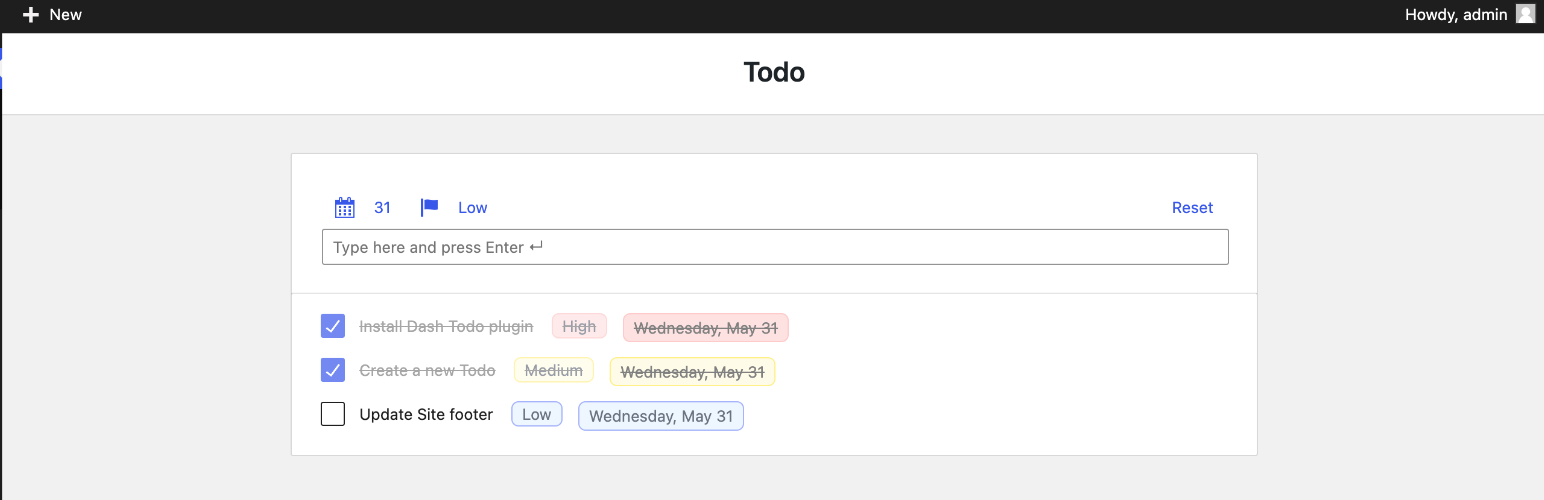
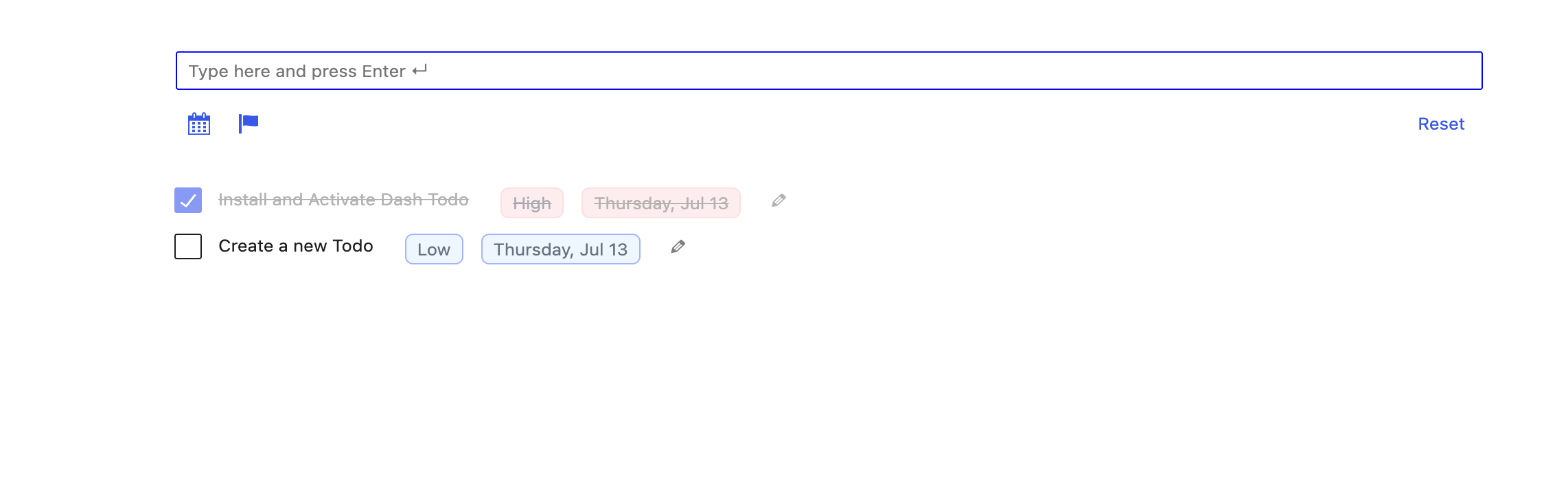
ui update

diff --git a/dash-todo.php b/dash-todo.php
@@ -28,37 +28,6 @@ define( 'DASH_TODO_PLUGIN_URL', plugins_url( '/', __FILE__ ) );
 define( 'DASH_TODO_PLUGIN_FILE', __FILE__ );
 define( 'DASH_TODO_PLUGIN_DIR', __DIR__ );
 
-
-
 require_once 'admin-page.php';
 
-
 register_activation_hook( __FILE__, __NAMESPACE__ . '\\create_demo_todo_items' );
-// function create_demo_todo_items() {
-// 	$installed = get_option( 'dash_todo_installed' );
-// 	$initial_todo_items = [
-// 		[
-// 			'post_title' => 'Install and Activate Dash Todo',
-// 			'post_status' => 'publish',
-// 			'post_type' => 'todo',
-// 			'post_excerpt' => date( "F j, Y" ),
-// 			'menu_order' => 3
-
-// 		],
-// 		[
-// 			'post_title' => 'Create a new Todo',
-// 			'post_status' => 'pending',
-// 			'post_type' => 'todo',
-// 			'post_excerpt' => date( "F j, Y" ),
-// 			'menu_order' => 1
-
-// 		]
-// 	];
-
-// 	if ( ! $installed ) {
-// 		update_option( 'dash_todo_installed', time() );
-// 		foreach ( $initial_todo_items as $item ) {
-// 			wp_insert_post( $item );
-// 		}
-// 	}
-// }

diff --git a/README.md b/README.md
@@ -29,6 +29,10 @@ I'm managing the plugin here: https://github.com/shariffff/dash-todo . Feel free
 
 ## Changelog
 
+### 1.1.1
+
+- Updated: More focusing UI
+
 ### 1.1.0
 
 - Feature: Ability to edit existing todo item's text.
